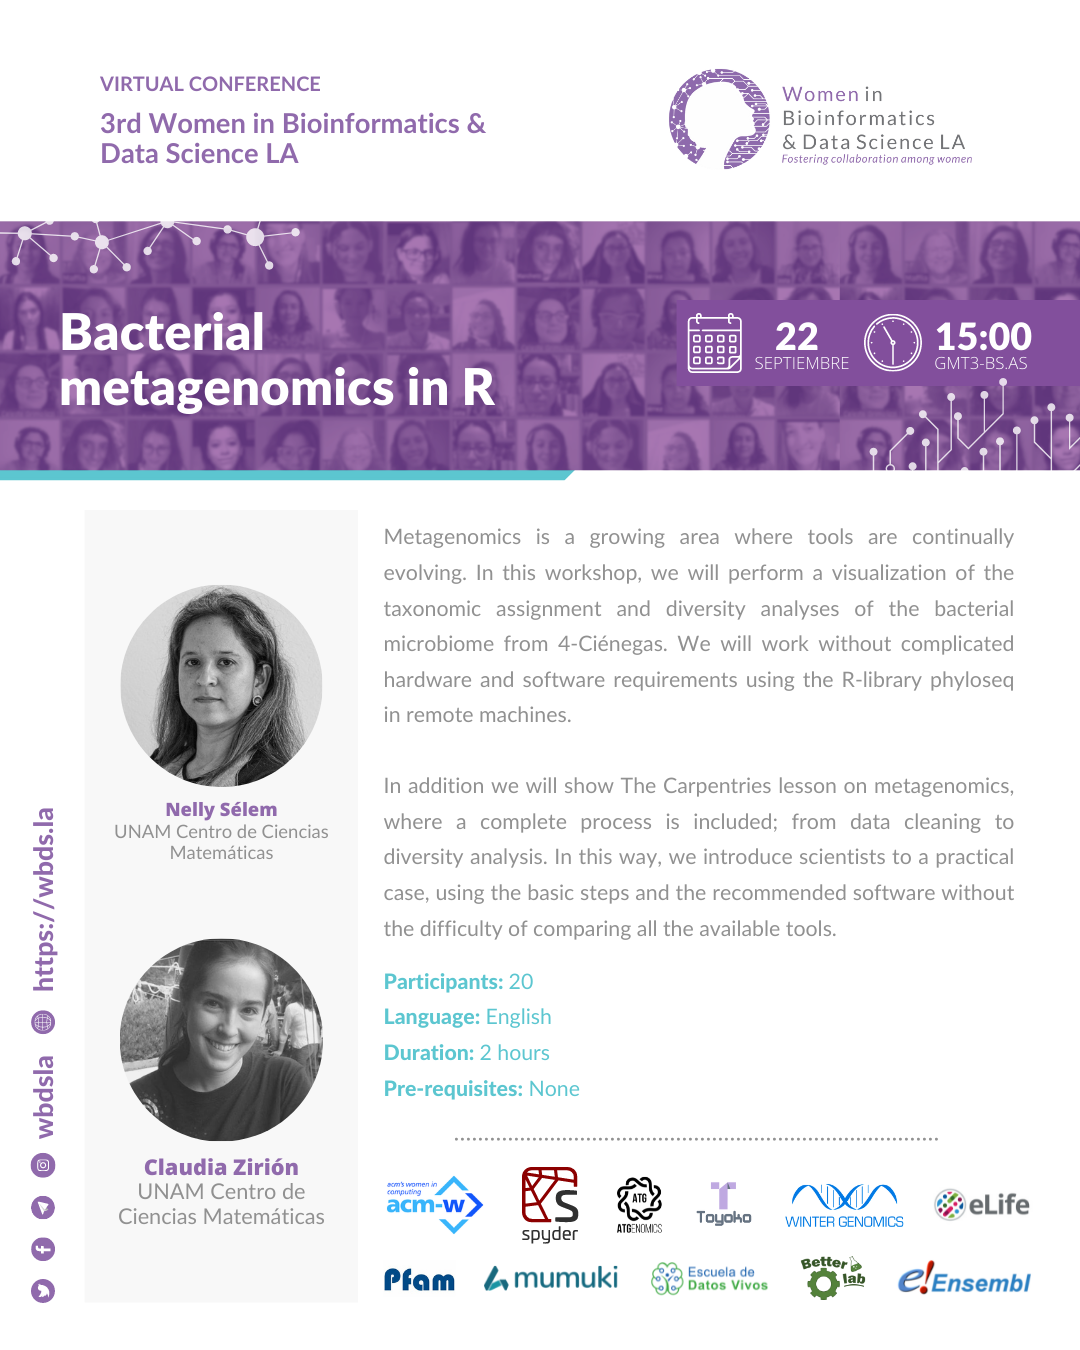
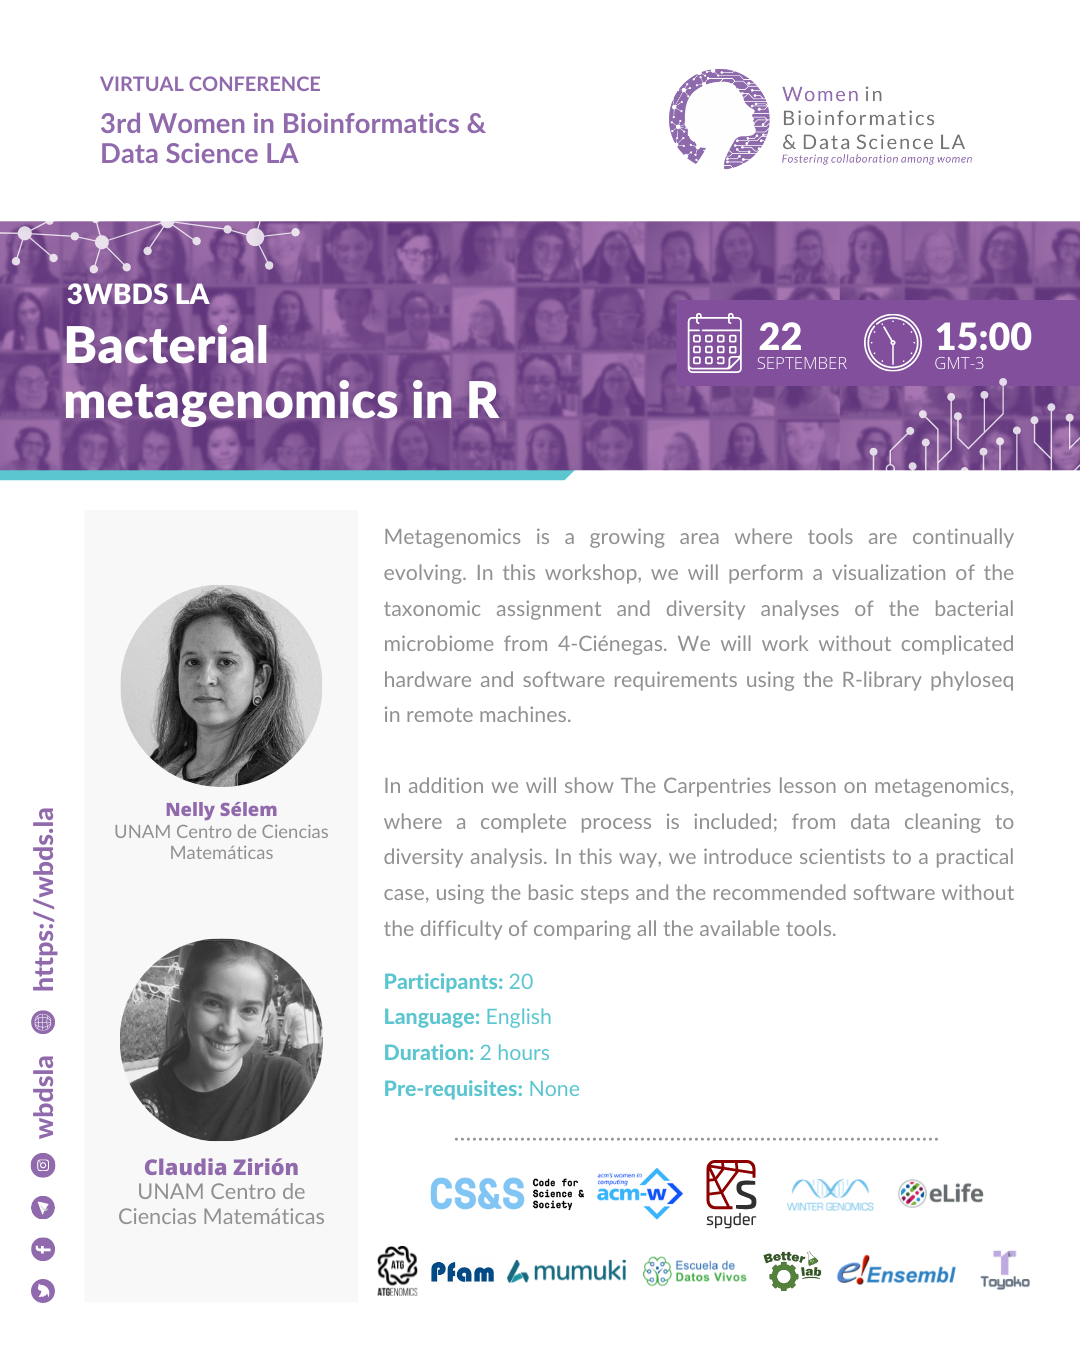
added ensembl workshops

Changed region(s): [[0.3361, 0.84, 0.9472, 0.9644], [0.0611, 0.1867, 0.4583, 0.3111], [0.7028, 0.2178, 0.7944, 0.28]]

diff --git a/conferences/3WBDSLAC/assets/js/workshops.js b/conferences/3WBDSLAC/assets/js/workshops.js
@@ -1,6 +1,7 @@
 const dayOneButton = document.getElementById('workshop-registration');
 const mlWorkshop = $('#machine-learning');
 const bmWorkshop = $('#bacterial-metagenomics');
+const ensemblWorkshop = $('#ensembl-workshop');
 const workshopTables = $('#workshop-tables');
 
 
@@ -14,6 +15,10 @@ function renderWorkshopsSection() {
         <a id='bmWorkshopFlyer' href="#" target="_blank" class="workshopsflyer disable">
             <img src="./assets/img/workshops/bm_workshop.png" alt="machine learning workshop flyer">
         </a>
+
+        <a id='ensemblWorkshopFlyer' href="#" target="_blank" class="workshopsflyer disable">
+            <img src="./assets/img/workshops/ensembl_workshop.png" alt="ensembl workshop flyer">
+        </a>
     `);
 
 
@@ -21,22 +26,36 @@ function renderWorkshopsSection() {
 
     const mlWorkshopFlyer = $('#mlWorkshopFlyer');
     const bmWorkshopFlyer = $('#bmWorkshopFlyer');
-
+    const ensemblWorkshopFlyer = $('#ensemblWorkshopFlyer');
 
     mlWorkshop.on('click', () => {
         $(mlWorkshop).addClass('orange-element');
+        $(ensemblWorkshop).removeClass('orange-element');
         $(bmWorkshop).removeClass('orange-element');
         mlWorkshopFlyer.removeClass("disable");
         bmWorkshopFlyer.addClass("disable");
+        ensemblWorkshopFlyer.addClass("disable");
     });
 
 
     bmWorkshop.on('click', () => {
         $(bmWorkshop).addClass('orange-element');
+        $(ensemblWorkshop).removeClass('orange-element');
         $(mlWorkshop).removeClass('orange-element');
         mlWorkshopFlyer.addClass("disable");
+        ensemblWorkshopFlyer.addClass("disable");
         bmWorkshopFlyer.removeClass("disable");
     });    
+
+
+    ensemblWorkshop.on('click', () => {
+        $(ensemblWorkshop).addClass('orange-element');
+        $(bmWorkshop).removeClass('orange-element');
+        $(mlWorkshop).removeClass('orange-element');
+        mlWorkshopFlyer.addClass("disable");
+        bmWorkshopFlyer.addClass("disable");
+        ensemblWorkshopFlyer.removeClass("disable");
+    });   
 
 }
 

diff --git a/conferences/3WBDSLAC/assets/js/program.js b/conferences/3WBDSLAC/assets/js/program.js
@@ -199,7 +199,7 @@ function renderProgramSection() {
             </tr>
             <tr>
                 <td>13:00 - 15:00 </td>
-                <td colspan="2">Wikiton</td>
+                <td colspan="2">Wikithon</td>
             </tr>
             <tr>
                 <td>16:30 - 18:30</td>
@@ -210,7 +210,8 @@ function renderProgramSection() {
                 <td colspan="3">
                     <a href="https://wikimedia.org.ar/" target="_blank"><img src="assets/img/logos/wiki_arg.png" alt="wikimedia" id="wiki-arg"></a>
                     <a href="https://wikimedia.mx/" target="_blank"><img src="assets/img/logos/wiki_mx.png" alt="wikimedia" id="wiki-mx"></a>
-                </td>
+                    <a href="https://www.datagenero.org/" target="_blank"><img src="assets/img/logos/observatorio.png" alt="data género" id="datagenero"></a>
+                </td>               
             </tr>
         </tbody>
     </table>

diff --git a/conferences/3WBDSLAC/workshops.html b/conferences/3WBDSLAC/workshops.html
@@ -90,8 +90,9 @@
                     <span class="underline"></span>
                 </div>
                 <div class="prgram-butons">
-                    <a href="#" class="button" id="machine-learning">Machine Learning</a>
-                    <a href="#" class="button" id="bacterial-metagenomics">Bacterial Metagenomics</a>
+                    <a href="#" class="wshop-button button" id="machine-learning">Introduction to Machine Learning</a>
+                    <a href="#" class="wshop-button button" id="bacterial-metagenomics">Bacterial Metagenomics</a>
+                    <a href="#" class="wshop-button button" id="ensembl-workshop">Browsing Genes and Genomes</a>
                 </div>
                 <div id="workshop-tables"></div>
                 <div id="workshop-registration"></div>

diff --git a/conferences/3WBDSLAC/style/main.css b/conferences/3WBDSLAC/style/main.css
@@ -449,6 +449,10 @@ nav a:hover {
     z-index: 10;
 }
 
+.wshop-button{
+    width: 14vw;
+}
+
 .orange-element {
     background-color: #906aac;
 }
@@ -844,7 +848,7 @@ nav a:hover {
     height: 6.2em;
 }
 
-#wiki-mx{
+#wiki-mx,#datagenero{
     height: 6em;
 }
 .orgas-logo {
@@ -1307,6 +1311,7 @@ width: 70%;
     display: flex;
     flex-flow: row;
     justify-content: center;
+    align-items: center;
     margin: 2% 0;
     flex-wrap: wrap;
 }
